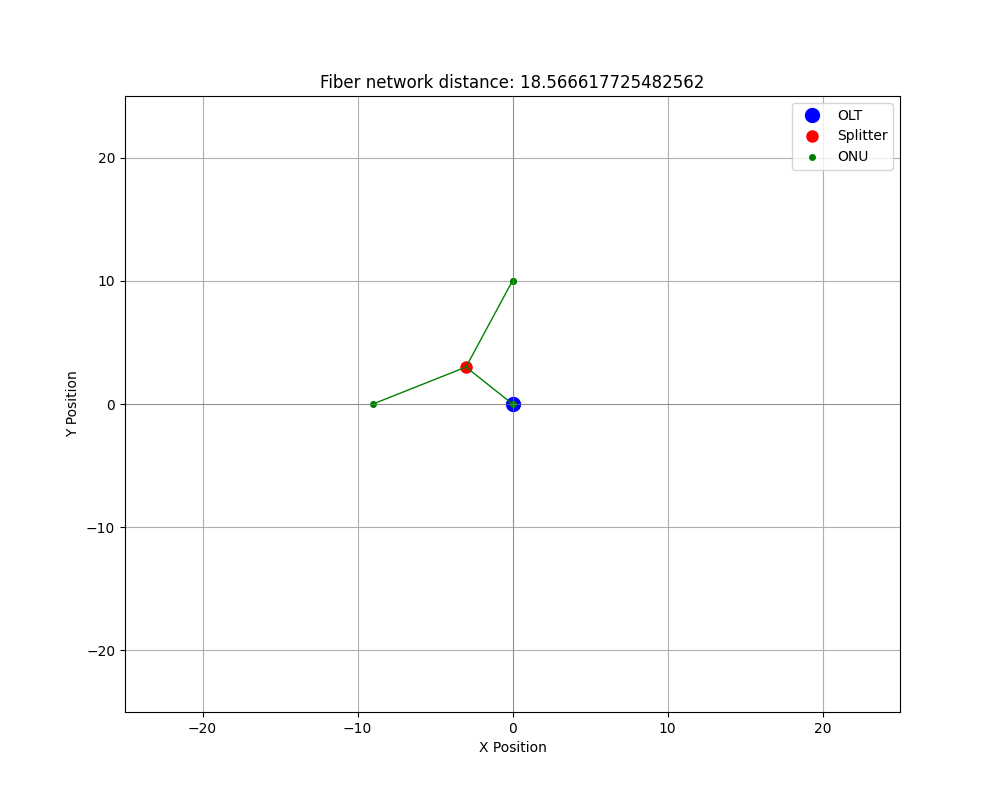
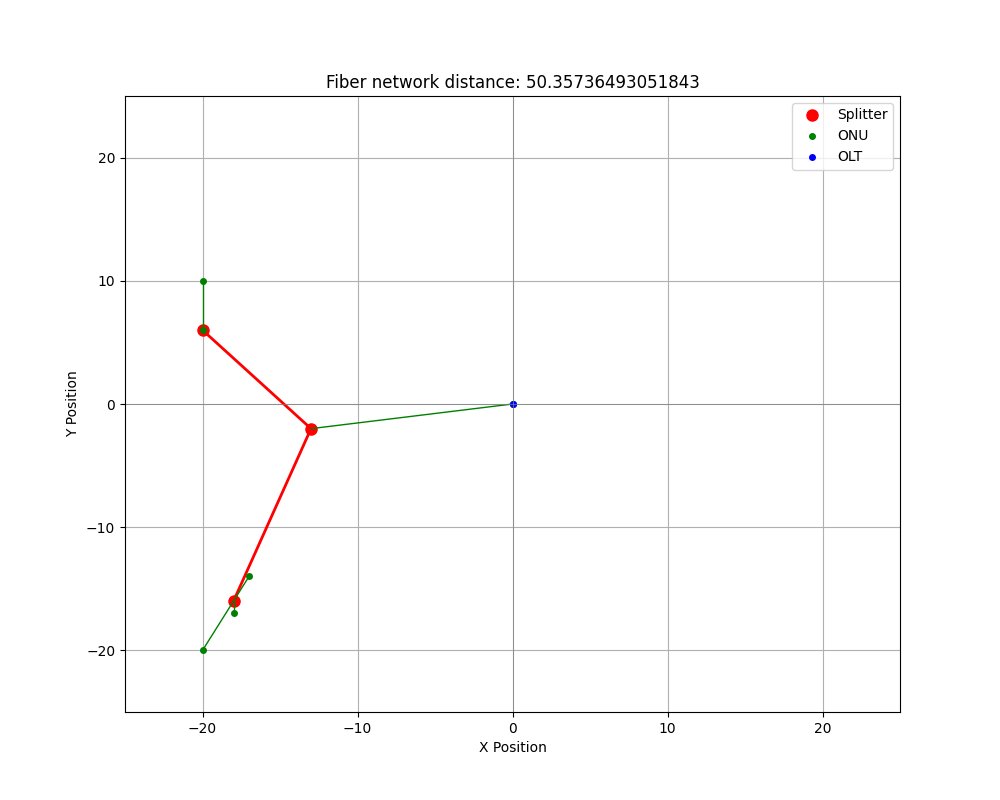
naprawione

diff --git a/fiber_lib.py b/fiber_lib.py
@@ -64,10 +64,8 @@ def assign_ONU_to_splitters(splitters_positions, onus):
     
     return ONU_positions.copy()
 
-def plot_network(splitters_positions, mst, ONU_positions, title, dist):
+def plot_network(splitters_positions, mst, ONU_positions, title, dist, close=True):
     plt.figure(figsize=(10, 8))
-
-    plt.plot(0, 0, 'bo', markersize=10, label='OLT')
 
     for idx, splitter in enumerate(splitters_positions[:]):
         plt.plot(splitter[0], splitter[1], 'ro', markersize=8, label='Splitter' if idx == 0 else "")  # Splitters in red
@@ -76,7 +74,8 @@ def plot_network(splitters_positions, mst, ONU_positions, title, dist):
         for j in range(mst.shape[1]):
             if mst[i, j] > 0:  # There is a connection
                     plt.plot([splitters_positions[i][0], splitters_positions[j][0]], 
-                             [splitters_positions[i][1], splitters_positions[j][1]], 'g-', linewidth=2)
+                             [splitters_positions[i][1], splitters_positions[j][1]], 'r-', linewidth=2)
+                    
 
     for _, onu in ONU_positions.iterrows():
         plt.plot(onu['x'], onu['y'], 'go', markersize=4)
@@ -87,6 +86,7 @@ def plot_network(splitters_positions, mst, ONU_positions, title, dist):
         splitter_position = splitters_positions[splitter_id]
         plt.plot([splitter_position[0], onu['x']], [splitter_position[1], onu['y']], 'g-', linewidth=1) 
 
+    plt.plot(0, 0, 'bo', markersize=4, label='OLT')
 
     plt.title('Fiber network distance: ' + str(dist))
     plt.xlabel('X Position')
@@ -99,6 +99,7 @@ def plot_network(splitters_positions, mst, ONU_positions, title, dist):
     plt.legend()
     plt.savefig(title)
     plt.show()
-#   plt.close()
+    if(close):
+        plt.close()
 
     

diff --git a/GUI.py b/GUI.py
@@ -6,7 +6,8 @@ from matplotlib.backends.backend_tkagg import FigureCanvasTkAgg
 import numpy as np
 from k_rand import calculate
 
-df = pd.DataFrame(columns=['x', 'y'])
+#df = pd.DataFrame(columns=['x', 'y'])
+df = pd.DataFrame({'x': [0], 'y': [0]})
 
 root = tk.Tk()
 root.title("XY Plane with Points")
@@ -16,7 +17,8 @@ plane_size = 0
 canvas = None  
 
 def ask_plane_size():
-    size = simpledialog.askinteger("Plane Size", "Enter the size of the plane (positive integer):")
+    size = 25
+#    size = simpledialog.askinteger("Plane Size", "Enter the size of the plane (positive integer):")
     if size is None or size <= 0:
         messagebox.showerror("Invalid Size", "Please enter a valid positive integer.")
         ask_plane_size()
@@ -88,7 +90,7 @@ def call_calculate():
     if max_splitters is None or max_splitters <= 0:
         messagebox.showerror("Invalid Input", "Please enter a valid positive integer for max_splitters.")
     else:
-        calculate(df, max_splitters)
+        calculate(df, max_splitters, close=False)
 
 frame_controls = tk.Frame(root)
 frame_controls.pack(side=tk.LEFT, padx=10, pady=10)

diff --git a/k_rand.py b/k_rand.py
@@ -28,10 +28,8 @@ def optimize_splitters_with_krand(ONU_positions, num_splitters, max_iter, max_st
     return splitters_positions, ONU_positions, total_length, mst
 
 
-def calculate(ONU_positions, max_splitters):
+def calculate(ONU_positions, max_splitters, close=True):
     file_path = "onu_points" + num + ".xlsx"
-    new_point = pd.DataFrame({'x': [0], 'y': [0]})
-    ONU_positions = pd.concat([ONU_positions, new_point], ignore_index=True)
     
     ONU_positions['splitter_id'] = -1
     max_iter = 5000
@@ -50,7 +48,7 @@ def calculate(ONU_positions, max_splitters):
             best_mst = c_mst
         
     file_path = os.path.join("k-rand_img" + "_krand_fiber_network" + ".png")
-    plot_network(best_splitters, best_mst, best_onus, file_path, best_dist)
+    plot_network(best_splitters, best_mst, best_onus, file_path, best_dist, close)
     print("final", best_dist)
     print(best_splitters)
     print(best_onus)
